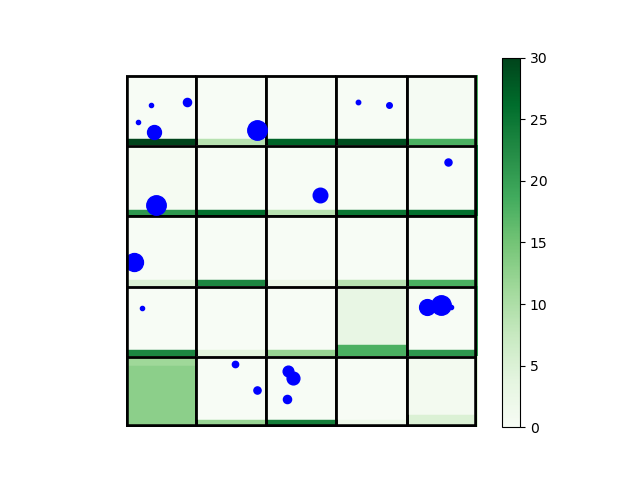
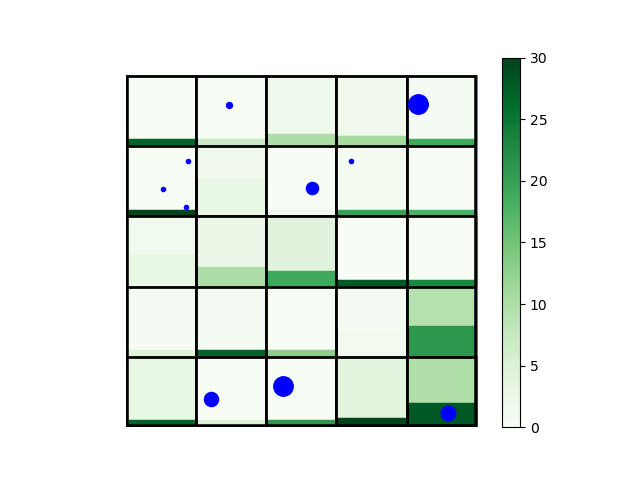
initial funding implementation

diff --git a/Run.py b/Run.py
@@ -1,4 +1,5 @@
 from PIL import Image
+import numpy as np
 from classCell import *
 from classBoard import *
 from classScientist import *
@@ -7,6 +8,13 @@ weights = {
     "citation" : 0, 
     "impact" : 0.1,
     "exploration" : 1
+}
+
+funding = {
+    "total" : 50,
+    "decrease" : 1,
+    "replenishTime" : 5,
+    "minimum" : 10
 }
 
 def oneRun(board, cellsHit, numRun):
@@ -25,6 +33,42 @@ def oneRun(board, cellsHit, numRun):
     board.drawBoard(cellsHit, numRun)
     return board
 
+def distributeFunding(dept):
+    """
+    distribute the funding allotted for each board
+    """
+    denominator = 0
+    probabilities = np.zeros_like(dept)
+    for sci in dept:
+        star = sci.getStarFactor()
+        # ensure numbers are in reasonable range
+        if star <= -1:
+            star = 1/abs(star)
+        elif star >= 1:
+            star = star
+        else:
+            star = 1
+
+        denominator += np.exp(star)
+
+    for i in range(len(dept)):
+        star = dept[i].getStarFactor()
+        if star <= -1:
+            star = 1/abs(star)
+        elif star >= 1:
+            star = star
+        else:
+            star = 1
+
+        numerator = np.exp(star)
+        probabilities[i] = numerator / denominator
+        # distribute funding based on starFactor for each scientist compared to whole department
+        dept[i].funding += probabilities[i] * funding["total"]
+        # dept[i].funding += funding["total"]/(len(dept))
+
+    return [sci.funding for sci in dept]
+    # go through scientists, add to their funding proportion of total
+
 def batchRun(board, numScientists, numRuns):
     """
     Runs the simulation for each of numRuns years.
@@ -32,17 +76,22 @@ def batchRun(board, numScientists, numRuns):
     At the end, an animation of the plots of each run is generated.
     """
     dept = [Scientist() for i in range(numScientists)]
+    print("ogFunding: ", [sci.funding for sci in dept])
     for j in range(numRuns):
         # keep track of which cells the scientists are hitting to check overlap
+        if j % funding["replenishTime"] == 0:
+            print("funding: ", distributeFunding(dept))
+
         cellsHit = {}
         for idx in range(len(dept)):
             scientist = dept[idx]
+            scientist.funding -= funding["decrease"]
             location = scientist.chooseCell(board, weights)
             if location in cellsHit.keys():
                 cellsHit[location].append(scientist)
             else:
                 cellsHit.update({location : [scientist]})
-            if scientist.career == 0:
+            if (scientist.career == 0) or (scientist.funding <= funding["minimum"]):
                 # when one scientist ends their career, another is introduced
                 dept.remove(scientist)
                 dept.append(Scientist())
@@ -64,4 +113,4 @@ def batchRun(board, numScientists, numRuns):
     return
 
 board = Board(5, 5, 0)
-batchRun(board, 20, 20)
+batchRun(board, numScientists=10, numRuns=20)

diff --git a/classScientist.py b/classScientist.py
@@ -9,6 +9,7 @@ class Scientist():
         # they should be at least one so we don't divide by 0
         self.impact = abs(np.random.randint(20 - self.career, 35 - self.career)) + 1
         self.citcount = abs(np.random.randint(20 - self.career, 35 - self.career)) + 1
+        self.funding = abs(np.random.randint(20 - self.career, 35 - self.career)) + 1
 
     def __repr__(self):
         """String representation of Scientist"""
@@ -16,7 +17,9 @@ class Scientist():
 
     def getStarFactor(self):
         """calculates starFactor based on scientist's parameters"""
-        overall = ((self.impact-(31 - self.career)) + (self.citcount-(31 - self.career)))/(31 - self.career) 
+        num = (self.impact-(31 - self.career)) + (self.citcount-(31 - self.career)) + (self.funding-(31 - self.career))
+        denom = (31 - self.career) 
+        overall = num/denom
         return overall
 
     def probCell(self, board, weights):
